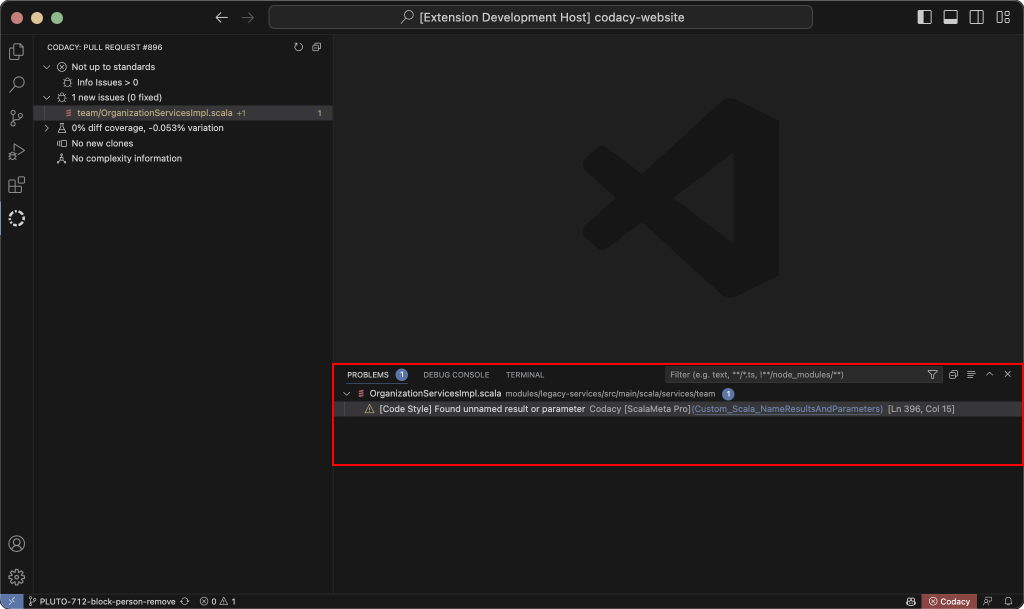
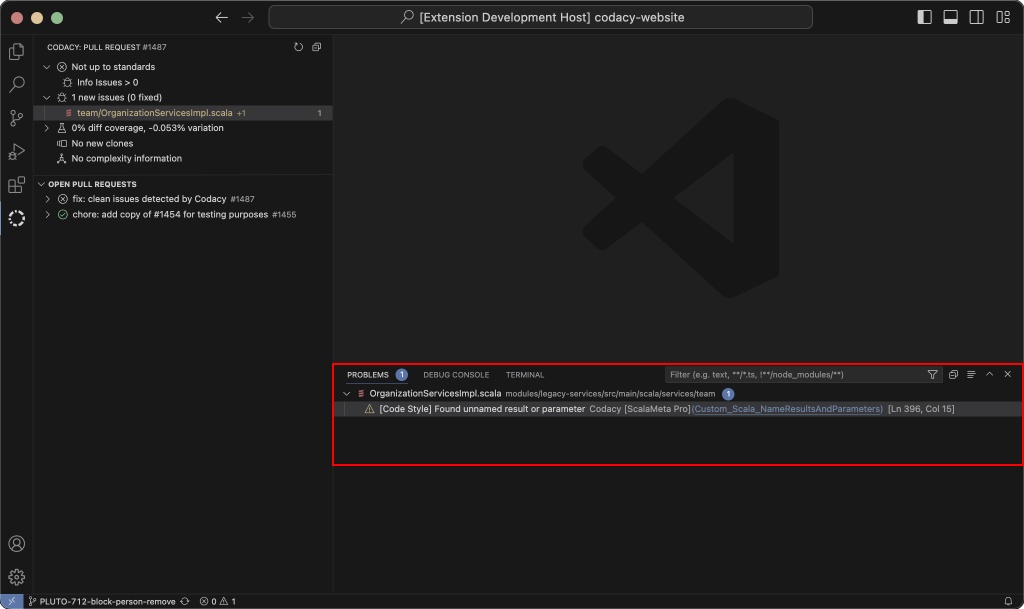
feat: VS Code plugin open PR list ALA-697 (#1936)
* wip: Add TODO

* feat: Update content

* feat: Tweak content

* feat: Screenshots

* feat: Improve IA

* wip: Update TODOs

* feat: Update screenshots

* clean: Remove TODOs

* feat: Add link to Managing branches

* feat: Apply suggestions from code review

* feat: Apply suggestions from code review

* feat: Tweaks

* feat: Apply suggestions from code review

* feat: Apply code review suggestion

* feat: Apply code review suggestion

* feat: Tweak wording

---------

Changed region(s): [[0.0312, 0.2808, 0.2812, 0.3744], [0.875, 0.9672, 0.9688, 1.0], [0.125, 0.0624, 0.1562, 0.0936]]

diff --git a/docs/getting-started/integrating-codacy-with-visual-studio-code.md b/docs/getting-started/integrating-codacy-with-visual-studio-code.md
@@ -6,6 +6,66 @@ Use this extension to get the full list of problems found by Codacy for a pull r
 
 !!! info "To use this extension you need a [Codacy account](https://www.codacy.com/signup-codacy)"
 
+## Interface overview
+
+The main view of the extension displays information about the code quality and coverage changes introduced by the pull requests you're working on, as well as the quality status of analyzed branches. This information is grouped into three panels:
+
+-   [Pull request status](#status-tab)
+-   [Open pull requests](#open-pull-requests-tab)
+-   [Analyzed branch](#analyzed-branch-tab)
+
+![Important issues](./images/codacy-vscode-extension-main-view.png)
+
+### Status tab
+
+The **Pull request status** tab displays the following information for the pull request of the currently checked-out branch:
+
+-   The **Quality status** of the pull request, either up to standards or not up to standards, based on the [Quality gates](../repositories-configure/adjusting-quality-gates.md) set for the repository.
+
+-   Any **Quality issues** introduced or fixed by the pull request. These are the same issues you find in the [Quality Issues tabs](../repositories/pull-requests.md#issues-tabs) in the Codacy app and are also visible in VS Code's Problems tab.
+
+    The number next to each file name is the total number of Quality issues that the pull request adds to or removes from that file. The number farther to the right, added by VS Code, is the total number of problems in that file, which may or may not be Quality issues from Codacy. If there are any Medium or Critical Quality issues, the file name is also highlighted in yellow (Medium) or red (Critical).
+
+    ![Important issues](./images/codacy-vscode-extension-important-issues.png)
+
+-   The **diff coverage and coverage variation** introduced by the pull request. These are the same values you find in the [Pull request coverage overview](../repositories-coverage/pull-requests.md#coverage-overview) panel in the Codacy app.
+
+    The percentage next to each file name is the coverage variation for that file.
+
+-   Sequences of **duplicate code** (clones) introduced by the pull request. These are the same ones you find in the [Quality Duplication tabs](../repositories/pull-requests.md#duplication-tabs) in the Codacy app.
+
+-   Variations in **code complexity** introduced by the pull request.
+
+### Open pull requests tab
+
+![Pull requests tab UI](images/codacy-vscode-extension-pull-requests-tab.png)
+
+The **Open Pull Requests** tab lists all open pull requests for the repository, including the following information for each:
+
+-   The status of the pull request, which is visible on hover:
+
+    -   Analyzing, if Codacy is analyzing the branch.
+
+    -   Up to standards or not up to standards, based on the [Quality gates](../repositories-configure/adjusting-quality-gates.md) set for the repository.
+
+-   The author of the pull request.
+
+-   The source and target branches of the pull request.
+
+-   Any **Quality issues** introduced or fixed by the pull request. These are the same issues you find in the [Quality Issues tabs](../repositories/pull-requests.md#issues-tabs) in the Codacy app.
+
+-   Sequences of **duplicate code** (clones) introduced by the pull request. These are the same ones you find in the [Quality Duplication tabs](../repositories/pull-requests.md#duplication-tabs) in the Codacy app.
+
+-   Variations in **code complexity** introduced by the pull request. This is the same value you find on the [Pull request quality overview](../repositories/pull-requests.md#quality-overview) in the Codacy app.
+
+### Analyzed branch tab
+
+![Analyzed branch tab UI](images/codacy-vscode-extension-analyzed-branch-tab.png)
+
+The **Analyzed Branch** tab appears if you switch to an analyzed branch that doesn't have an open pull request, such as the `main` or `master` branch. This tab shows an overview of the Quality issues found in that branch, grouped by recently added, introduced by the current user, issue category, and issue severity.
+
+See [how to manage the analysis of your repository's branches](../repositories-configure/managing-branches.md).
+
 ## Installing the Codacy VS Code extension
 
 1.  Make sure that the repository you’re working on is analyzed by Codacy and that you have a [repository read](../organizations/roles-and-permissions-for-organizations.md) role or higher.
@@ -19,14 +79,12 @@ Use this extension to get the full list of problems found by Codacy for a pull r
 
 ## Getting pull request quality and coverage data
 
-To see Codacy quality and coverage data for the pull request you're working on, follow these steps:
+To see Codacy quality and coverage data for an open pull request, follow these steps:
 
 1.  Open the repository directory in VS Code.
 
     !!! note
         If the repository isn't on Codacy yet, [add it to Codacy](../organizations/managing-repositories.md#adding-a-repository) first.
-
-1.  Check out the branch associated with the open pull request you're working on.
 
 1.  Open the main view by clicking the **Codacy logo** in the activity bar or the **Codacy tab** in the status bar.
 
@@ -34,31 +92,16 @@ To see Codacy quality and coverage data for the pull request you're working on, 
 
 1.  If you’re not signed in, click the **Sign in** button to authorize VS Code on Codacy.
 
+    !!! tip
+        To access a complete list of Codacy commands, open the VS Code command palette (`Ctrl+Shift+P` on Windows/Linux or `Cmd+Shift+P` on macOS) and type "Codacy".
+
+1.  Check out the pull request of interest. You can do it either manually or from the **Open Pull Requests** tab, by clicking the arrow button or using the contextual right-click menu.
+
 After completing these steps, the main view shows the result of the latest Codacy analysis for the pull request. The VS Code Problems tab lists the Quality issues found.
-
-![Codacy main view](images/codacy-vscode-extension-main-view.png)
-
-The main view displays the information about the code quality changes introduced by the pull request:
-
--   The **Quality status** of the pull request, either up to standards or not up to standards, based on the [Quality gates](../repositories-configure/adjusting-quality-gates.md) set for the repository.
-
--   Any **Quality issues** introduced or fixed by the pull request. These are the same issues you find in the [Quality Issues tabs](../repositories/pull-requests.md#issues-tabs) in the Codacy app and are also visible in VS Code's Problems tab.
-
-    The number next to each file name is the total number of Quality issues that the pull request adds to or removes from that file. The number farther to the right is the number of new Medium or Critical Quality issues. If there are any such issues, the file name is also highlighted in yellow (Medium) or red (Critical).
-
-    ![Important issues](./images/codacy-vscode-extension-important-issues.png)
-
--   The **diff coverage and coverage variation** introduced by the pull request. These are the same values you find in the [Pull request coverage overview](../repositories-coverage/pull-requests.md#coverage-overview) panel in the Codacy app.
-
-    The percentage next to each file name is the coverage variation for that file.
-
--   Sequences of **duplicate code** (clones). These are the same ones you find in the [Quality Duplication tabs](../repositories/pull-requests.md#duplication-tabs) in the Codacy app.
-
--   Variations in **code complexity**.
 
 ## Reviewing pull request issues
 
-In the Problems tab, Codacy displays the same Quality issues you find in the main view and lets you navigate to the exact line of code where the issue was found.
+In the **Problems tab**, Codacy displays the same Quality issues you find in the **Status tab** and lets you navigate to the exact line of code where the issue was found.
 
 !!! note
     Code coverage, duplicates, and complexity aren't currently shown in the Problems tab.
